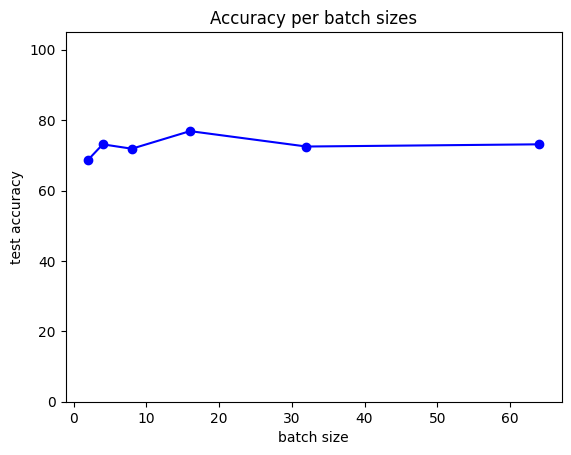
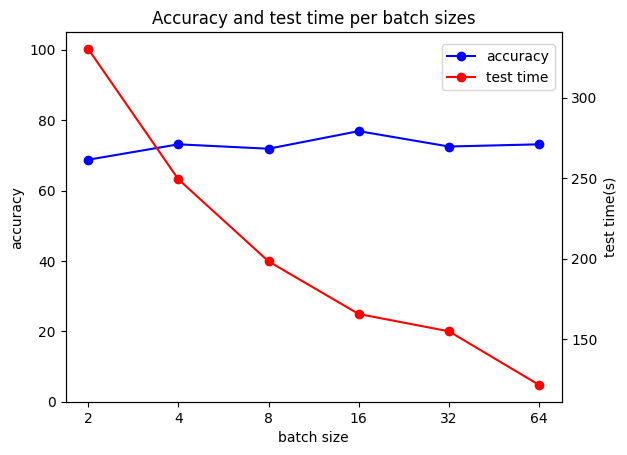
q4_done_maybe

diff --git a/CW2/report/sec/Q4.tex b/CW2/report/sec/Q4.tex
@@ -13,16 +13,20 @@ We desinged our CNN with
 	\item Use CrossEntropy as a loss function for optimization
 	\item The size of convolutional filter size 3
 \end{itemize}
-In addition, the input of our CNN is resized to 128*128 as Caltech101 dataset has image sizes 100 to 300.
-Also, the input image channel is 3(RGB) and it is amplified up to 256 through convolutional layers. For the output, it is reduced to 10 channels as we have 10 classed for the classification.
-Above is our basic model. We tried to choose simplest yet high-performance model. Detailed reasons for our choice will be introduced below.
+In addition, the input of our CNN is resized to 128*128 as Caltech101 dataset has image sizes 100 to 300. Detailed architecture including the dimension of channels are shown in \cref{fig:cnn_arch}. We tried to choose simplest yet high-performance model. Reasons for our choice will be introduced later.
+\begin{figure}[htbp]
+	\centering
+	\includegraphics[width=0.7\linewidth]{image/q4-1-arch.png}
+	\caption{Our CNN architecture}
+	\label{fig:cnn_arch}
+\end{figure}
 
 \subsection{Changing architecture}
-First, the number of layers. We changed the number of layers from 3 to 5. As shown in \cref{fig:q4-2-layers}, the test accuracy of CNN is highest when the number of layers is 4. It may because, when CNN has 3 layers, it is not enough to capture features from images and when it has 5 layers, it may occur over-fitting due to many weights and gradient vanishing. Hence, we concluded that 4 layers are the best choice for the performance.
+First, layers. We changed the number of layers from 3 to 5. As shown in \cref{fig:q4-2-layers}, the test accuracy is highest with 4 layers. It may because, when CNN has 3 layers, it is not enough to extract useful features from images and when it has 5, it may occur over-fitting due to the gradient vanishing. Hence, we conclude that 4 layers are the best choice for the performance.
 
-Next, we changed the size of kernel to 3, 5, and 7 to reveal its impact on CNN. As \cref{fig:q4-2-kernel} shows, the accuracy is highest when the kernel size is 3 and it decreases as the kernel size increases. It is because, when the kernel size is small, it is adequate to capture the details of images and when the size is big, it is good to perceive the global scene. However, as our image has 128*128 size, which is small, kernel size 3 is enough to extract useful feature of the image. other sizes are too big to recognize the features corresponding the image label.
+Next, we changed the size of kernel to 3, 5, and 7. As \cref{fig:q4-2-kernel} shows, the accuracy is highest when the kernel size is 3 and it decreases as the kernel size increases. When the kernel size is small, it is adequate to capture the details of images and when the size is big, it is good to perceive the global scene. However, as our image has 128*128 size, which is small, kernel size 3 is enough to extract useful feature of the image. other sizes are too big to recognize the features corresponding the image label.
 
-Lastly, we conduct the experiments on residual connection between layers. There are three cases: no connection between layers, connect every 2 layers, connect every one layers. Since we have total 4 layers, the total number of connection is 0, 2, and 4. The test accuracy are shown in \cref{fig:q4-2-connection}. The accuracy is increases as the number of connection increases. It is because, the more connection CNN has, the more information it gets. By residual connection, CNN does not lose the information from initial layers thus it can learn more general information about images and its label.
+Lastly, we conduct the experiments on residual connection between layers. There are three cases: no connection between layers, connect every 2 layers, connect every one layers. Since we have total 4 layers, the number of connections are 0, 2, and 4 for each. The test accuracy are shown in \cref{fig:q4-2-connection}. It increases as the number of connection increases. It is because,  using residual connection, CNN does not lose the information from initial layers thus it can learn more general information about images and its label.
 
 \begin{figure}[htbp]
 	\centering
@@ -51,18 +55,29 @@ Lastly, we conduct the experiments on residual connection between layers. There 
 	\label{fig:cnn_architecture}
 \end{figure}
 
-\subsection{Batch normalization}
+\subsection{Layer normalization}
+To explore the effect of the layer normalization method, we test our model using 4 different methods: batch, layer, instance, and group.
+
+The accuracies per batch number for each method are shown in \cref{fig:normalization}. We can check that batch normalization is greatly affected by the size of the batch, while the other methods show consistent accuracy regardless of the size of the batch.
+
+For batch normalization, the larger the batch size, the higher the accuracy. This is because larger batches are more robust to noise since they can closely estimate the true distribution of the training data. However, too large batch is inaccurate because we can not expect generalization effect due to the randomness of batch training. These are the reason why batch size 16 has the largest accuracy.
+
+In image classification, it is important to catch the difference between feature distribution of within and between classes. Using batch normalization, we can consider class distribution since the normalization is performed on a batch basis. However, other methods only do normalization within a single image, the information related to class statistics is weakened. Hence, their accuracy becomes lower than using batch normalization.
+
+\begin{figure}[htbp]
+	\centering
+	\includegraphics[width=0.5\linewidth]{image/q4-3.png}
+	\caption{Accuracy according to normalization types}
+	\label{fig:normalization}
+\end{figure}
 
 \subsection{Generalization}
-There are many method for Generalization of CNN. In this section, we are going to check the impact of drop-out and L2-regulization on weights(which is in Deep\_Learning\_intro Lecture Note pg.84) for the generalization.
-We test our basic model which has drop-out, the basic model without drop-out, and the basic model with L2-regulization on weights.
-Results are shown in \cref{table:generalization}. The model without drop-out has the lowest accuracy and the model with L2-regulization has the highest accuracy. 
-This is because, drop-out randmly deactivate some neurons, so it helps model to avoid overfitting and be good at generalization. And L2-regulization helps model to avoid overfitting by regulize the size of weights.
-Hence, it is natural result that the model with both drop-out and L2-regulization has the best performance.
+There are many method for Generalization of CNN. In this section, we are going to check the impact of drop-out and L2-regularization on weights(which is in Deep\_Learning\_intro Lecture Note pg.84). We test our basic model which has drop-out, the model without drop-out, and the model with L2-regularization on weights. Results are shown in \cref{table:generalization}. The model without drop-out has the lowest accuracy and the model with L2-regularization has the highest accuracy. This is because, drop-out randomly deactivate some neurons, so it helps model to avoid overfitting and be good at generalization. And L2-regularization helps model to avoid overfitting by regulate the size of weights.
+Hence, it is natural result that the model with both drop-out and L2-regularization has the best performance.
 
 \begin{table}[htbp]
 	\centering
-	\setlength{\tabcolsep}{10pt}
+	\setlength{\tabcolsep}{6pt}
 	\renewcommand{\arraystretch}{1.5}
 	\begin{tabular}{|c||c|}
 	\hline
@@ -79,11 +94,10 @@ Hence, it is natural result that the model with both drop-out and L2-regulizatio
 \subsection{Loss function}
 We use CrossEntropy, which is based on softmax function, as a loss function as usual. And compare it with SquaredHinge loss.
 
-Using CrossEntropy for the loss function, we get 73.75\% accuracy. However, when we use SquaredHinge loss, we get 80.00\% accuracy. The accuracy with SquaredHinge loss is higher. This is because, as CrossEntropy is based on probability distribution and SquaredHinge loss is based on the margin between expected and real classes, SquaredHinge is better since our dataset is small. (which has only 10 classes) Because the dataset is small, it is hard to make an accurate probability distribution due to the law of large numbers. Hence, it is better to use direct borders and margins between classes.
-Despite this reason, we adopted CrossEntropy as a basic loss function as it is widely used.
+Using CrossEntropy for the loss function, we get 73.75\% accuracy while we get 80.00\% accuracy with SquaredHinge loss, which is higher. This is because, as CrossEntropy is based on probability distribution and SquaredHinge loss is based on the margin between expected and real classes, SquaredHinge is better since our dataset is small. (which has only 10 classes) In more detail, because the dataset is small, it is hard to estimate an accurate probability distribution due to the law of large numbers. Hence, it is better to use direct borders and margins between classes. Despite this reason, we adopted CrossEntropy as a basic loss function as it is widely used.
 
 \subsection{Compressing CNN}
-We conduct an experiment on compressing layers of CNN using truncated SVD. Since our model has 4 layers with rank 512, 128, 32, 10, we compress first two layers with 100(original), 75, 50, 25 percent each because last two layers are too small to compress, thus it might be cause the huge loss of data when they are compressed. The experiment result are shown in \cref{fig:cnn_svd}. Test accuracy and test time are both decreased as layers are more compressed. It is because, as weight matrix of layers become compressed, there remain less computation to get the result, so, the test time decreased. However, as the matrix is more compressed, it causes more data loss than the original weight matrix.
+We conduct an experiment on compressing layers of CNN using truncated SVD. Our model has 4 fc layers with rank 512, 128, 32, 10, and we compress first two layers with 100(original), 75, 50, 25 percent each because last two layers are too small to compress. The result are shown in \cref{fig:cnn_svd}. Test accuracy and time are both decreased as layers are more compressed. It is because, as weight matrix of layers become compressed, there remain less computation to get the result, but it causes more data loss.
 
 \begin{figure}[htbp]
 	\centering
@@ -95,39 +109,39 @@ We conduct an experiment on compressing layers of CNN using truncated SVD. Since
 \subsection{Changing parameters}
 We observe the influence of main hyper-parameters by experiments. We changed 3 parameters from base model: learning rate, batch size, and the number of epochs.
 
-\cref{fig:q4-7-lr-train} and \cref{fig:q4-7-lr} indicates the result of varying learning rate. We changed learning rate to 0.00001, 0.0001, 0.0005, and 0.005. As shown in pictures, when the learning rate is 0.00001, the model doesn't converge sufficiently since it is too small, thus it can not reach the local minimum of loss during the given epochs. Conversely, when the learning rate is 0.0005 and 0.001, it vibrates too much until it reaches the convergence point. More specifically, amplitude of 0.001 is larger than 0.0005. This is because, the amount of moving is too big, so, the model oscillates near the local minimum largely. Therefore, we decided that learning rate = 0.0001 is the best for our model. Also, regarding the accuracy, the accuracy is higher when the learning rate is 0.0001 and less than this when the learning rate is smaller or bigger than 0.0001. It is because, if the learning rate is too small like 0.00001, it can not converge in the training time sufficiently. And if the learning rate is too big, it might pass through optimization point.
+\cref{fig:q4-7-lr-train} and \cref{fig:q4-7-lr} indicates the result of varying learning rate. We changed learning rate to 0.00001, 0.0001, 0.0005, and 0.005. When the learning rate is 0.00001, the model doesn't converge sufficiently since it is too small to reach the local minimum of loss during the given epochs. And when the learning rate is 0.0005 and 0.001, it vibrates too much until it reaches the convergence point. More specifically, amplitude of 0.001 is larger than 0.0005. This is because, the amount of moving is too big, so, the model oscillates near the local minimum largely. Therefore, we decided that learning rate = 0.0001 is the best for our model. Regarding the accuracy, the accuracy is higher when the learning rate is 0.0001 and less than this when the learning rate is smaller or bigger than 0.0001. It is because, if the learning rate is too small, it can not converge in the training time sufficiently and if the it is too big, it might pass through optimization point.
 
-For the batch size, we trained our model with batch size from $2^1$ to $2^6$. Then we get highest accuracy when the batch size is 16 and the further away from 16, the lower the accuracy.(\cref{fig:q4-7-batch}) This is because, with small batch size, the model learn the feature distribution from small amount of data, the train result may be largely different from whole data distribution. On the other hand, if the batch size is too big, it is vulnerable for generalization and there exists a risk for over-fitting since the model learns statistics from a large amount of train data. Generally, batch size 32 is not big enough to cause the over-fitting, but, considering our whole train data is consist of 150 images, 32 is quite large number. Therefore, it is reasonable that batch size 16 is enough to get enough meaningful features while avoiding over-fitting.
+For the batch size, we trained our model with batch size from $2^1$ to $2^6$. And we get the highest accuracy when the batch size is 16.(\cref{fig:q4-7-batch}) This is because, with small batch, the model learns the feature distribution from small amount of data, so, the train result can be largely different from whole data distribution. Conversely, if the batch size is too big, it is vulnerable at generalization since we can not expect generalization effect from increasing randomness of training as smaller batch. Generally, batch size 32 is not big enough to cause the over-fitting but considering that size of our training dataset is 150, 32 is quite large number. Therefore, it is reasonable that batch size 16 is enough to get enough meaningful features while avoiding over-fitting. In addition, test time decreases using bigger batch because of parallel computing on GPU in batch units. In general, we can conclude that there is a trade off between accuracy and test time on batch size.
 
-Lastly, for the number of epochs, we use 75, 100, 125, 200 epochs and compared the result. Results are shown in \cref{fig:q4-7-epoch}. The accuracy was higher with 100 epochs. It is because, when the number of epoch is not enough, it can cause under-fitting while large amount of epochs can cause over-fitting during the training time.
+Lastly, for the number of epochs, we use 75, 100, 125, 200 epochs and compared the result. Results are shown in \cref{fig:q4-7-epoch}. The accuracy is the highest with 100 epochs because when the number of epoch is not enough, it can cause under-fitting while large amount of epochs can cause over-fitting.
 
 \begin{figure}[htbp]
 	\centering
-	\begin{subfigure}{0.48\linewidth}
+	\begin{subfigure}{0.23\linewidth}
 		\centering
 		\includegraphics[width=\linewidth]{image/q4-7-lr-train.png}
-		\caption{Train losses according to learning rates}
+		\caption{Learning rate training losses}
 		\label{fig:q4-7-lr-train}
 	\end{subfigure}%
 	\hfill
-	\begin{subfigure}{0.48\linewidth}
+	\begin{subfigure}{0.23\linewidth}
 		\centering
 		\includegraphics[width=\linewidth]{image/q4-7-lr.png}
-		\caption{Accuracy according to learning rates}
+		\caption{Learning rate accuracy}
 		\label{fig:q4-7-lr}
 	\end{subfigure}
-	
-	\begin{subfigure}{0.48\linewidth}
+	\hfill
+	\begin{subfigure}{0.23\linewidth}
 		\centering
 		\includegraphics[width=\linewidth]{image/q4-7-batch.png}
-		\caption{Accuracy according to batch sizes}
+		\caption{Batch size accuracy}
 		\label{fig:q4-7-batch}
 	\end{subfigure}
 	\hfill
-	\begin{subfigure}{0.48\linewidth}
+	\begin{subfigure}{0.23\linewidth}
 		\centering
 		\includegraphics[width=\linewidth]{image/q4-7-epoch.png}
-		\caption{Accuracy according to epochs}
+		\caption{Epoch accuracy}
 		\label{fig:q4-7-epoch}
 	\end{subfigure}
 	\caption{Changing hyper-parameters of CNN}
@@ -135,7 +149,7 @@ Lastly, for the number of epochs, we use 75, 100, 125, 200 epochs and compared t
 \end{figure}
 
 \subsection{Pre-trained model}
-In this section, we compare training methods: fine-tuning pre-trained model and training from scratch from random initialization. Since our CNN does not have pre-trained version because we have only one dataset for both training and test, we used pre-trained ResNet model(microsoft/resnet-50, trained with ImageNet) and custom it with our Caltech101 dataset. Due to the time limit, we only train it with 10 epochs. When we use pre-trained weights and fine-tuning them, we get 0.9933\% accuracy. And when we train the model from scratch, we get 0.2133\% accuracy which is lower than before. Based on this result, with the limited amount of time and resources, it is much better to use pre-trained model to get high performance. It may because, since we used pre-trained model with same task(image classification), trained weight is specialized for image classification even with different dataset. Therefore, fine-tuning using a custom dataset can achieve higher accuracy with fewer training epochs than train from scratch.
+In this section, we compare training methods: fine-tuning pre-trained model and training from scratch from random initialization. Since our CNN does not have pre-trained version, we used pre-trained ResNet model(microsoft/resnet-50, trained with ImageNet) and custom it with Caltech101 dataset. Due to the time limit, we only train it with 10 epochs. When we use pre-trained weights and fine-tuned them, we get 99.33\% accuracy. And training from scratch with random initialization, we get 21.33\% accuracy which is lower than before. Based on this result, with the limited amount of time and resources, it is much better to use pre-trained model to get high performance. It is because, since we used pre-trained model with same task(image classification), trained weight is specialized for image classification even with different dataset. Therefore, fine-tuning using a custom dataset can achieve higher accuracy with fewer resources than training from scratch.
 
 \subsection{Comparison with other methods}
 Considering that our CNN have accuracy about 75\%, it is much better model than RF classifier and RF codebook on classifying Caltech101 dataset. (\cref{table:accuracy}) This may because, CNN can learn hierarchical features through layers, so, it can capture various characteristics of images. On the other hand, RF classifier and RF codebook use fixed method for extracting features from images, so they can only learn limited features.
@@ -147,7 +161,7 @@ Considering that our CNN have accuracy about 75\%, it is much better model than 
 	\resizebox{0.5\textwidth}{!}{ % Scale table to fit text width
 		\begin{tabular}{|c||c|c|}
 			\hline
-			& Train Accuracy (\%) & Test Accuracy (\%) \\ \hline\hline
+			& Train Accuracy (\%) & Test Accuracy (\%) \\ \hline\hline\
 			K-means Codebook - RF Classifier & 99.50 & 68.5   \\ \hline
 			RF Codebook - RF Classifier & 97.80 & 60.67  \\ \hline
 			CNN & 100.00 & 75.625  \\ \hline

diff --git a/CW2/CNN/cnn.py b/CW2/CNN/cnn.py
@@ -91,12 +91,19 @@ class CustomCNN(nn.Module):
 
         input_size = 128
         for out_channels in out_channels_list:
-            block = nn.Sequential(
-                nn.Conv2d(in_channels, out_channels, kernel_size=conv_kernel_size, stride=1, padding=1),
-                get_normalization(out_channels, input_size),
-                nn.ReLU(),
-                nn.MaxPool2d(kernel_size=2, stride=2)
-            )
+            if out_channels <= 64:
+                block = nn.Sequential(
+                    nn.Conv2d(in_channels, out_channels, kernel_size=conv_kernel_size, stride=1, padding=1),
+                    nn.ReLU(),
+                    nn.MaxPool2d(kernel_size=2, stride=2)
+                )
+            else:
+                block = nn.Sequential(
+                    nn.Conv2d(in_channels, out_channels, kernel_size=conv_kernel_size, stride=1, padding=1),
+                    get_normalization(out_channels, input_size),
+                    nn.ReLU(),
+                    nn.MaxPool2d(kernel_size=2, stride=2)
+                )
             self.conv_blocks.append(block)
             in_channels = out_channels
             input_size = math.floor((input_size - conv_kernel_size + 2 * 1) / 1 + 1)  # Conv2D
